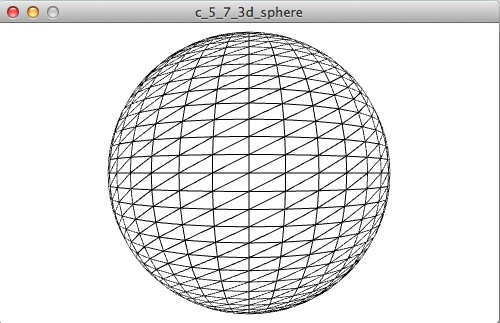
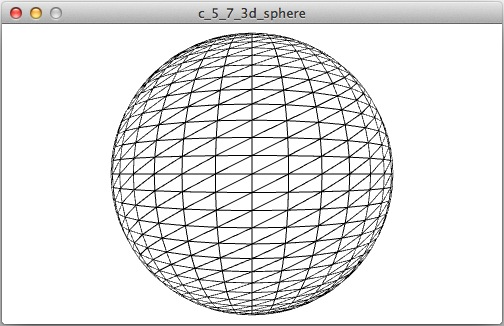
update 3D描画でtranslateを変更した際、見え方のどのように異なるのか説明を追加

Changed region(s): [[0.0, 0.0, 1.0, 1.0]]

diff --git a/chapter_5/README.md b/chapter_5/README.md
@@ -384,4 +384,28 @@ void draw() {
 
 以下のような3Dの球体が描画される
 
-<img src="../README_resources/chapter_5/c_5_7_3d_sphere.jpg" width="500">
+<img src="../README_resources/chapter_5/c_5_7_3d_sphere.jpg" width="504">
+
+### `translate`を変更し、見え方の違いを確認する
+
+上記のコードだと2Dの円とあまり変わりがないように見えるため、`translate`の3つめの引数を変更してみる。
+
+上記のコードで`translate`を以下のように変更すれば
+
+```
+translate(width/2, height/2, -50);
+```
+
+球体が遠ざかったように見えるような描画がされる。
+
+<img src="../README_resources/chapter_5/c_5_7_3d_sphere_2.jpg" width="503">
+
+また、`translate`を以下のように変更すれば
+
+```
+translate(width/2, height/2, 150);
+```
+
+球体の中にいるような描画がされる。
+
+<img src="../README_resources/chapter_5/c_5_7_3d_sphere_3.jpg" width="503">
